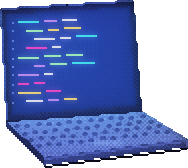
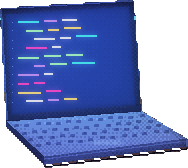
art(R-03): draw the laptop on the fine layer
Its lid and base are shallow diagonals, which EPX tore into ragged steps. The canvas gains filled shapes on the fine layer (fpoly, frect), and the laptop is drawn there whole, so its edges stay straight.

diff --git a/tools/art/room.py b/tools/art/room.py
@@ -333,6 +333,16 @@ class Off:
         self.cv.fline([self._xy(x, y) for x, y in pts], c, k, width * self.k, body)
         self._mline(pts, width)
 
+    def fpoly(self, pts, c, k=0.0, body=None):
+        """A polygon on the fine layer (Cv.fpoly), recorded in the silhouette."""
+        self.cv.fpoly([self._xy(x, y) for x, y in pts], c, k, body)
+        m = self._m()
+        if m:
+            m.polygon(self._p(pts), fill=255)
+
+    def frect(self, x, y, w, h, c, k=0.0):
+        self.fpoly([(x, y), (x + w - 1, y), (x + w - 1, y + h - 1), (x, y + h - 1)], c, k)
+
     def lpoly(self, pts, c, k=1.0, body=None):
         p = self._p(pts)
         self.cv.d.polygon(p, fill=tuple(body or c) + (255,))
@@ -1249,13 +1259,16 @@ def table(g, rnd):
     table_map(g, T)
     # ---- laptop (the projects object)
     o = place(g, 'projects', (148, 288))
+    # Drawn on the fine layer: its lid and base are shallow diagonals, which EPX
+    # tears into ragged steps (docs/13, R-03). Everything of it goes there, or
+    # the fine lid would cover the 1x screen.
     o.shadow(152, 350, 96, 20, 0.5)
     S = [(148, 292), (214, 288), (218, 343), (151, 348)]
-    o.poly(S, (44, 48, 76))
-    o.line([S[0], S[1]], (120, 128, 166))
-    o.line([S[0], S[3]], (84, 92, 130))
+    o.fpoly(S, (44, 48, 76))
+    o.fline([S[0], S[1]], (120, 128, 166))
+    o.fline([S[0], S[3]], (84, 92, 130))
     D = [(151, 295), (212, 291), (215, 340), (154, 345)]
-    o.lpoly(D, (40, 70, 160), 0.42, body=(22, 30, 62))
+    o.fpoly(D, (40, 70, 160), 0.42, body=(22, 30, 62))
     colors = [MAG, CYA, (255, 206, 110), (150, 255, 170), (226, 232, 255), (176, 130, 255)]
     tilt = (D[0][1] - D[1][1]) / (D[1][0] - D[0][0])  # follow the slope of the screen top edge
     for r in range(10):
@@ -1279,30 +1292,30 @@ def table(g, rnd):
             if x > 204:
                 break
     for r in range(10):
-        o.lpx(154, int(round(299 + r * 4.4)), (90, 110, 170), 0.5)
-    o.px(181, 290, (20, 22, 40))
+        o.frect(154, int(round(299 + r * 4.4)), 1, 1, (90, 110, 170), 0.5)
+    o.frect(181, 290, 1, 1, (20, 22, 40))
     # body
     Bq = [(151, 348), (218, 343), (241, 357), (170, 366)]
     # the base has a thickness: its front edge and the side toward the middle
     # of the room both show, and it sits on the table on a dark contact line
-    o.poly([(151, 348), (170, 366), (170, 370), (151, 351)], (60, 64, 94))
-    o.poly([(218, 343), (241, 357), (241, 361), (218, 346)], (74, 80, 112))
-    o.poly([(170, 366), (241, 357), (241, 361), (170, 370)], (96, 102, 138))
-    o.line([(170, 367), (241, 358)], (132, 140, 176))
-    o.line([(170, 371), (241, 362)], (20, 18, 30))
-    o.line([(241, 357), (241, 361)], (150, 158, 192))
-    o.poly(Bq, (160, 168, 198))
-    o.line([Bq[0], Bq[1]], (40, 44, 70))
+    o.fpoly([(151, 348), (170, 366), (170, 370), (151, 351)], (60, 64, 94))
+    o.fpoly([(218, 343), (241, 357), (241, 361), (218, 346)], (74, 80, 112))
+    o.fpoly([(170, 366), (241, 357), (241, 361), (170, 370)], (96, 102, 138))
+    o.fline([(170, 367), (241, 358)], (132, 140, 176))
+    o.fline([(170, 371), (241, 362)], (20, 18, 30))
+    o.fline([(241, 357), (241, 361)], (150, 158, 192))
+    o.fpoly(Bq, (160, 168, 198))
+    o.fline([Bq[0], Bq[1]], (40, 44, 70))
     for t in (0.14, 0.32, 0.5, 0.68):
         a, b = lerp(Bq[0], Bq[3], t), lerp(Bq[1], Bq[2], t)
         n = 13
         for i in range(n):
             p = lerp(a, b, (i + 0.5) / n)
             x, y = ri(p)
-            o.rect(x - 1, y, 3, 2, (104, 112, 148))
-            o.px(x - 1, y, (128, 136, 172))
+            o.frect(x - 1, y, 3, 2, (104, 112, 148))
+            o.frect(x - 1, y, 1, 1, (128, 136, 172))
     tp = lerp(lerp(Bq[0], Bq[3], 0.86), lerp(Bq[1], Bq[2], 0.86), 0.5)
-    o.rect(int(tp[0]) - 7, int(tp[1]) - 1, 14, 3, (182, 190, 216))
+    o.frect(int(tp[0]) - 7, int(tp[1]) - 1, 14, 3, (182, 190, 216))
     o.light(150, 336, 100, 40, (90, 150, 255), 0.5)
     o.light(146, 286, 76, 60, (80, 120, 255), 0.25)
     # ---- coffee

diff --git a/tools/art/px.py b/tools/art/px.py
@@ -91,6 +91,30 @@ class Cv:
         if k:
             self.fe.line(p, fill=mul(c, k), width=w)
 
+    def _fine(self):
+        s = SCALE
+        if self.fi is None:
+            self.fi = Image.new('RGBA', (self.w * s, self.h * s), (0, 0, 0, 0))
+            self.fem = Image.new('RGB', (self.w * s, self.h * s), (0, 0, 0))
+            self.fd = ImageDraw.Draw(self.fi)
+            self.fe = ImageDraw.Draw(self.fem)
+        return s
+
+    def fpoly(self, pts, c, k=0.0, body=None):
+        """A polygon drawn at the output resolution, like fline(): for shapes
+        whose edges are shallow diagonals, which EPX tears into ragged steps
+        (docs/13, R-03). Coordinates are art pixels, fractional allowed. Under it
+        the 1x emission is cleared and the shadow canvas left alone, as a solid
+        would; k makes it emit."""
+        s = self._fine()
+        off = (s - 1) / 2
+        p = [(x * s + off, y * s + off) for x, y in pts]
+        self.fd.polygon(p, fill=tuple(body or c) + (255,))
+        self.fe.polygon(p, fill=mul(c, k) if k else (0, 0, 0))
+        q = [(round(x), round(y)) for x, y in pts]
+        self.e.polygon(q, fill=(0, 0, 0))
+        self.s.polygon(q, fill=255)
+
     def shadow(self, x, y, w, h, k=0.5, ell=False):
         """Lay down a soft shadow; lower k is darker. Solids drawn afterwards are unaffected."""
         box = [x, y, x + w - 1, y + h - 1]

diff --git a/docs/13-art-review.md b/docs/13-art-review.md
@@ -872,8 +872,8 @@ something else.
 | 3     | 3.5  | done    | window curtains as two round folds each, reflected edge, core shadow, half-tone, highlight, lit from their own light's side; `rim()` in `room.py` lays a thin edge of a light's colour on the side facing it (neon magenta, lamp warm) on the benches, curtains, luggage and cup; earlier in the stage the tube's sockets and the lamp's mount were given depth                                                                                                                                                                |
 | 3     | 3.6  | done    | `reflections()` in `room.py`: the laptop screen's blue on the table in front of it, the lamp's sheen at the back right, a specular along the brass front edge, on the table only; a faint edge tint on the glass (`.glass` in scene.css) was tried and dropped: the return from outside stuttered in Chrome with it, and it made little difference (F-004 in 09); the floor's reflections would fall below the frame and were left out; along the way the laptop's base got its thickness and the cup moved forward of the map |
 | 4     | 4.1  | skipped | the art is sharp at 1:1; the blur is the browser scaling the 2x images up smoothly. Nearest-neighbour scaling in CSS stuttered (F-005 in 09) and 4x assets did not help enough; both reverted, and the step is skipped                                                                                                                                                                                                                                                                                                         |
-| 4     | 4.2  | review  | the light falling on the room's albedo is cut into bands of its strength, 0.2 apart, keeping its colour, with a 4x4 ordered dither between bands on the 1x grid (`bands` in `px.render`, `BANDS` in `room.py`); bloom and emission stay smooth; the city is untouched; room.webp grows from about 80 to 145 KB                                                                                                                                                                                                                |
-| 4     | 4.3  | pending |                                                                                                                                                                                                                                                                                                                                                                                                                                                                                                                                |
+| 4     | 4.2  | done    | the light falling on the room's albedo is cut into bands of its strength, 0.2 apart, keeping its colour, with a 4x4 ordered dither between bands on the 1x grid (`bands` in `px.render`, `BANDS` in `room.py`); bloom and emission stay smooth; the city is untouched; room.webp grows from about 80 to 145 KB                                                                                                                                                                                                                 |
+| 4     | 4.3  | review  | the laptop is drawn whole on the fine layer (`fpoly`, `frect` on the canvas and in `room.py`), so its lid and base keep straight edges instead of the steps EPX tore them into; the seat caps' edges were already clean enough after stage 1                                                                                                                                                                                                                                                                                   |
 | 4     | 4.4  | pending |                                                                                                                                                                                                                                                                                                                                                                                                                                                                                                                                |
 | 5     | 5.1  | pending |                                                                                                                                                                                                                                                                                                                                                                                                                                                                                                                                |
 | 5     | 5.2  | pending |                                                                                                                                                                                                                                                                                                                                                                                                                                                                                                                                |

diff --git a/docs/06-art-pipeline.md b/docs/06-art-pipeline.md
@@ -115,6 +115,13 @@ fine layer.
 
 ## The layers
 
+`Cv.fpoly()` (and `Off.fpoly()`, `Off.frect()`) draw filled shapes on the same
+layer, for objects whose outline is made of shallow diagonals: the laptop is
+drawn there whole. The fine layer lies over all the 1x art, so an object moved
+onto it has to move entirely, or its fine parts cover its 1x parts. Under a
+fine shape the 1x emission is cleared and the shadow canvas set to unshadowed,
+as under any solid.
+
 ### `street.py` + `city.py` — the mid distance (`c2.webp`)
 
 The longest strip and the most machinery. `build_c2` assembles:
@@ -238,4 +245,3 @@ only here and never become sprites. The window wall, everything not in front of
 it, takes the `far` gain and tint, which fades out below the table; the benches
 take the `bench` gain. Tune the numbers in `VALUE_PLAN`, and judge the result on
 `luma.png` from `npm run art:preview`.
-
